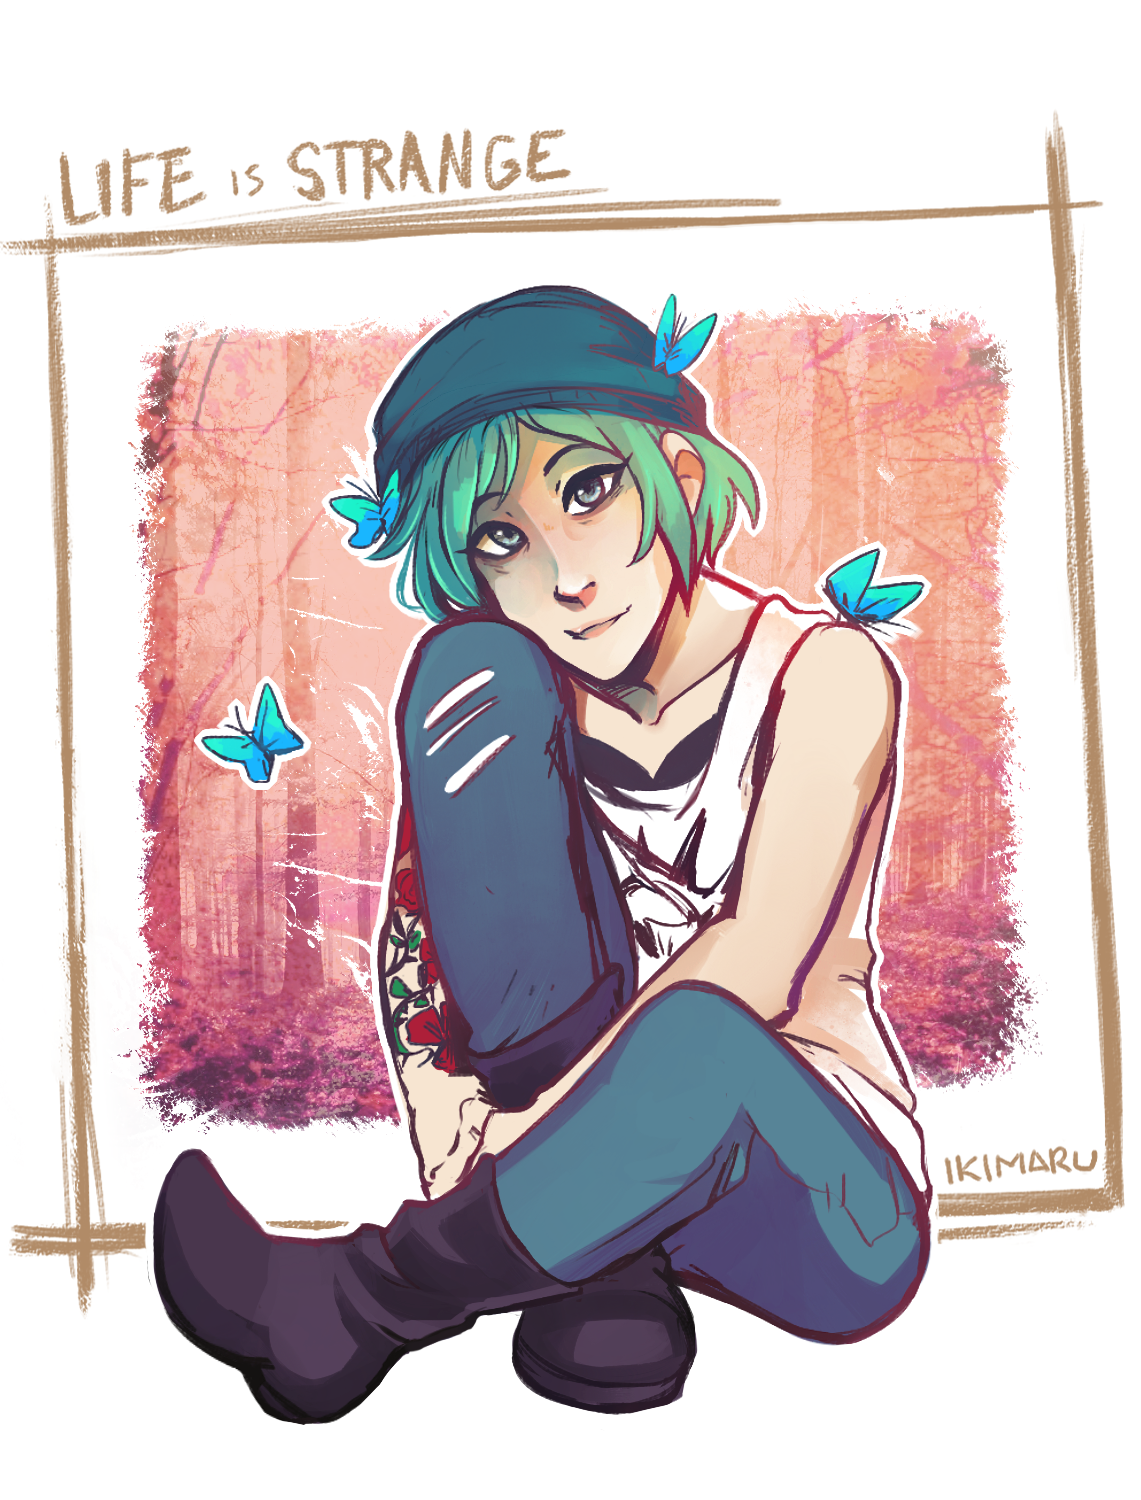
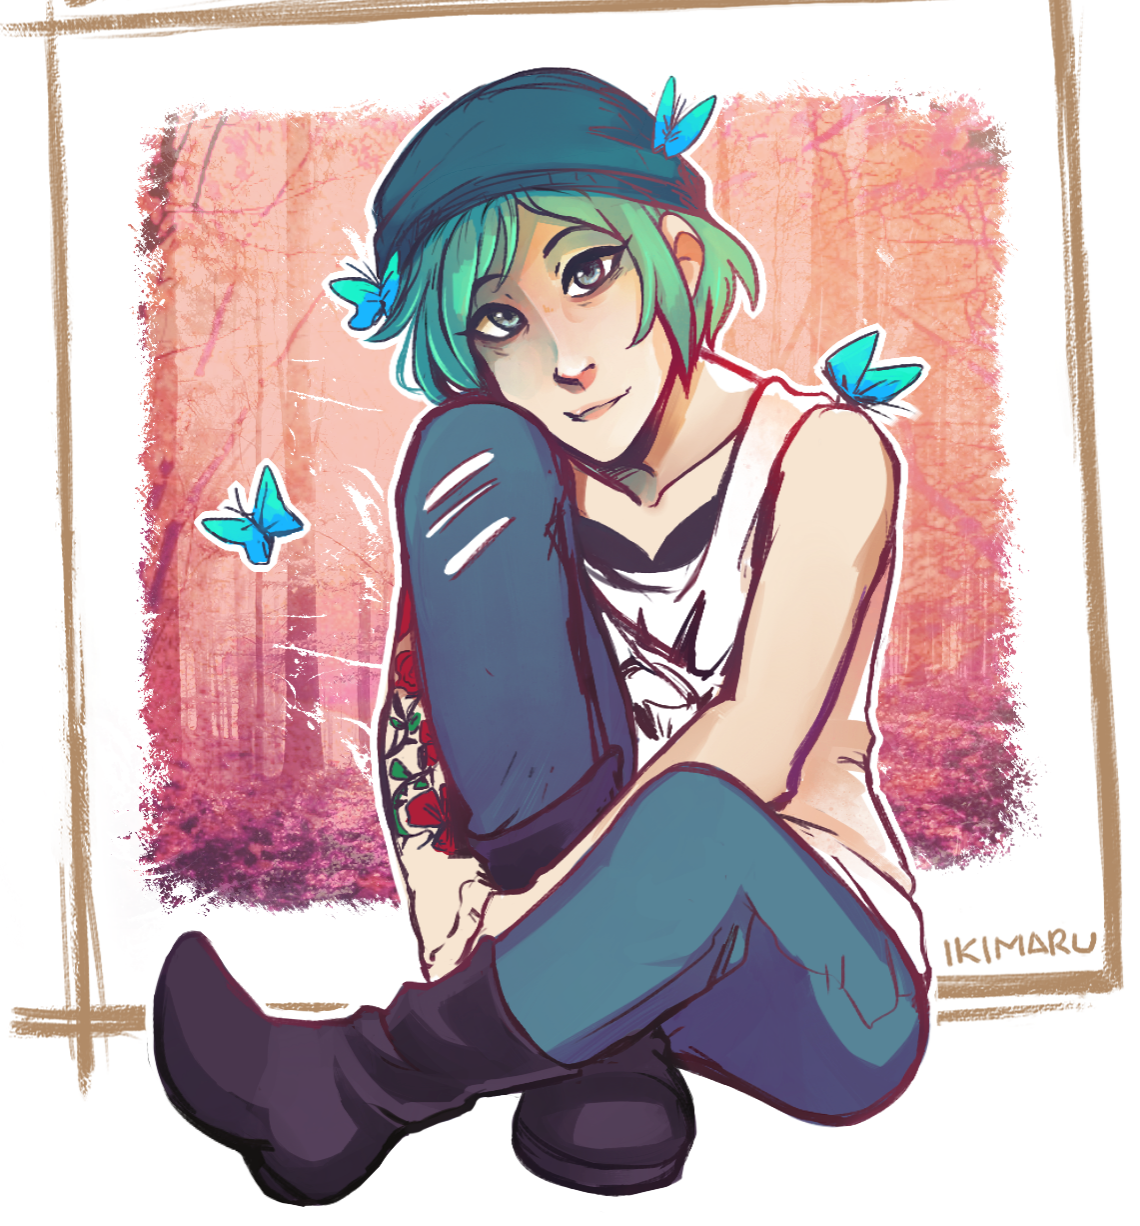
finish html and css, add touch up details and replace place holders

diff --git a/index.html b/index.html
@@ -10,7 +10,7 @@
       <div class="jumbotron">
         <h1><em>Azure Rose Legacy</em></h1>
       </div>
-      <img src="img/snake.jpg" alt="An image of a snake">
+      <img src="img/punk.png" alt="An image of Chloe from Life is Strange">
       <div class="panel panel-info">
         <div class="panel-heading">
           <h2 class="panel-title">Projects:</h2>
@@ -21,7 +21,7 @@
               <li><strong>My First Website</strong></li>
               <p>A small website with a couple of pages just to show off basic html and css styles.</p>
               <li><strong>Island Getaway Website</strong></li>
-              <p>A website meant to advertise a island resort to its visitors and show them all the features and activities.</p>
+              <p>A website meant to advertise an island resort to its visitors and show them all the features and activities.</p>
               <li><strong>Mother Mother Band Website</strong></li>
               <p>A website meant to show off float styles with the theme surrounding my favorite band, Mother Mother</p>
             </ul>
@@ -35,13 +35,13 @@
         <blockquote class="bg-info">
           <div class="about-me">
             <p>My education is fairly basic, I went to Tualatin High School and took some college before coming to Epicodus. I was in the work force for about a year in between working for a Safeway in Oregon city. During this time I began transitioning from a male to a female so my life changed quite a bit and I decided I wanted to do something other than work in retail all my life. I have a small amout of experience programming just from a few projects in high school and college but I am a quick learner so I hoped that I would fit in well at Epicodus. Overall my life has been fairly straight forward and easy even though I am part of a minority, I am very thankful for the opportunities that I've been given and don't want to waste any of them.</p>
-            <p>Some of my hobbies include; photography, exploration, driving, and playing games.
+            <p>Some of my hobbies include; photography, exploration, driving, and playing games. Every once in awhile I'll go for a long drive with a friend and usually end up driving for hours or going hundreds of miles. Getting away from what I know has been one of my favorite things for a very long time, wanderlust has been ingrained in who I am for as long as I can remember.</p>
           </div>
         </blockquote>
       </div>
       <div class="panel panel-info">
         <div class="panel-heading">
-          <h2 class="panel-title">Programming Knowlage:</h2>
+          <h2 class="panel-title">Programming Knowledge:</h2>
         </div>
         <blockquote class="bg-info">
           <div class="lang">
